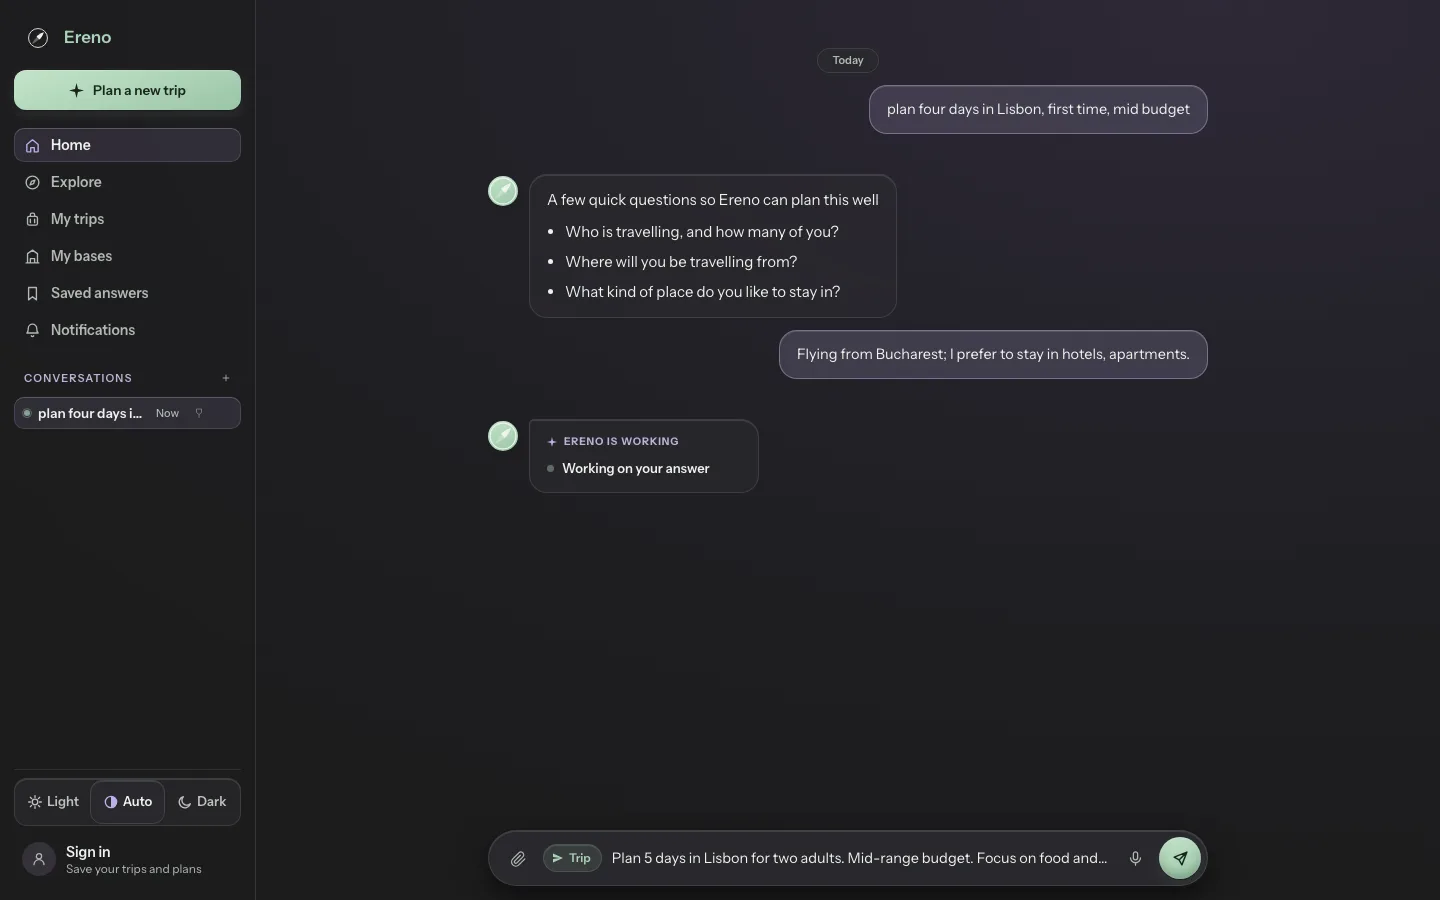
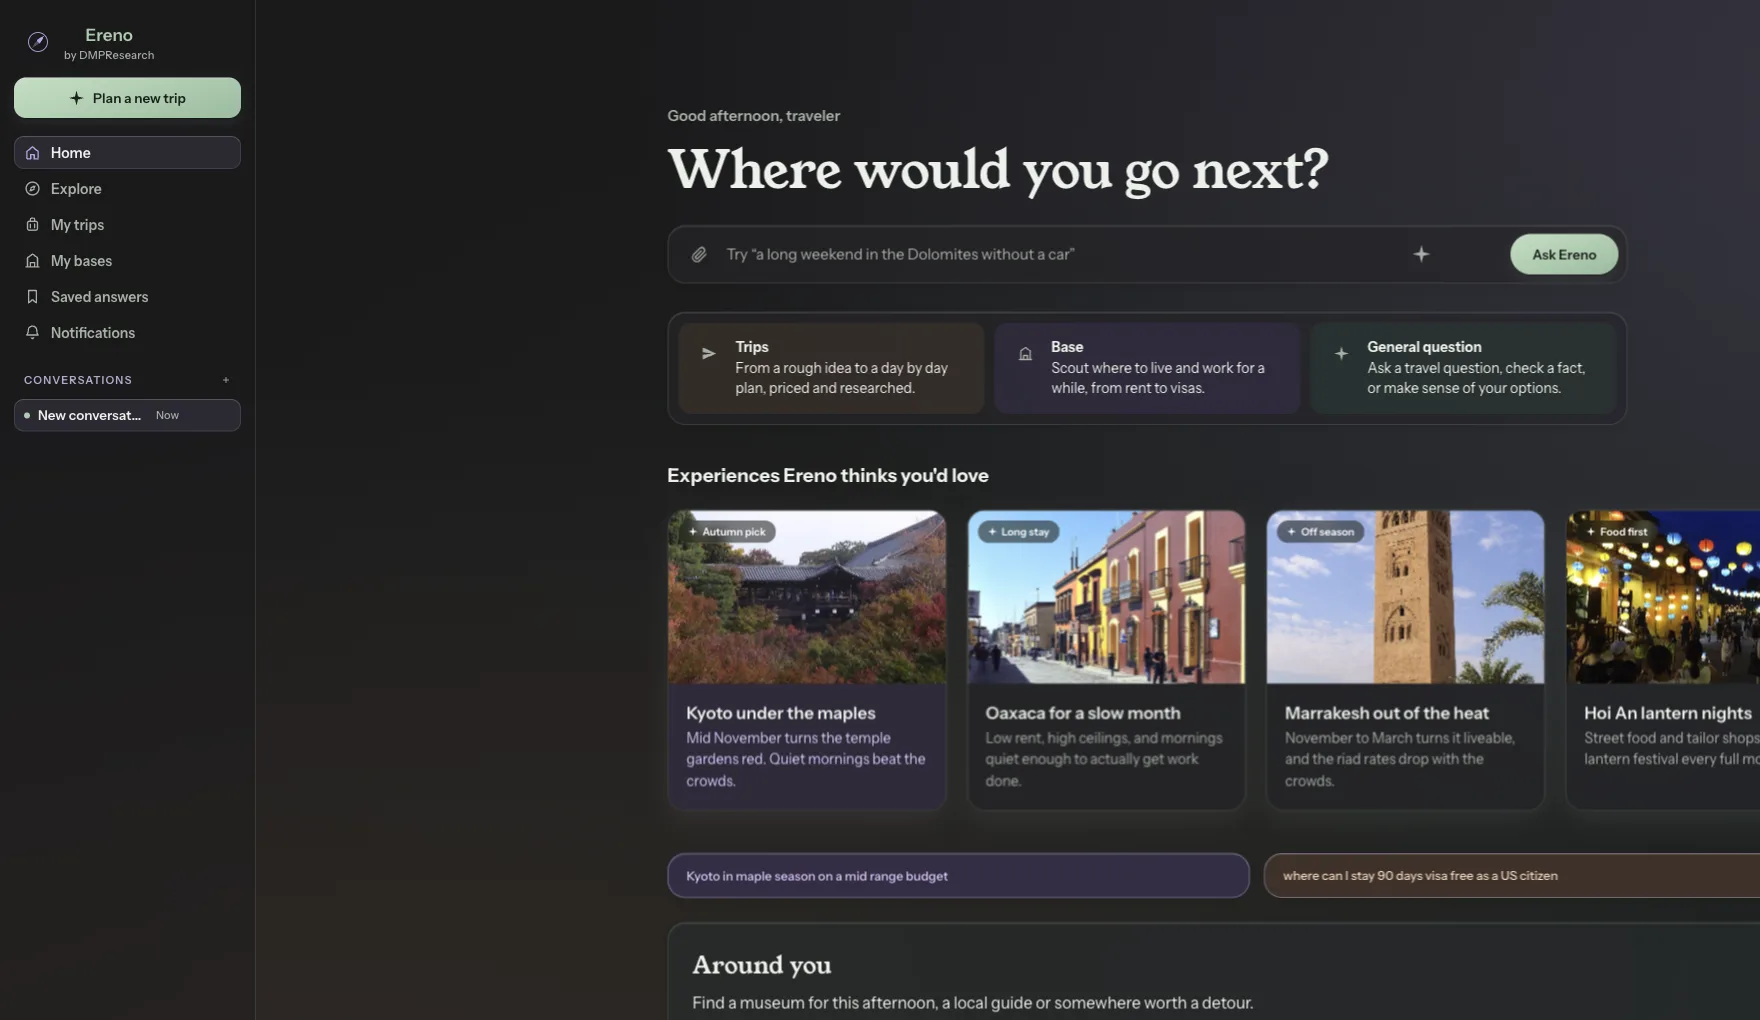
Show the current Ereno home interface in product screenshots.
Replace the old Lisbon planning shot with light and dark captures of the live home screen so the marketing site matches the app.

diff --git a/src/content/site.ts b/src/content/site.ts
@@ -102,7 +102,7 @@ export const products: Product[] = [
     mark: '/ereno.svg',
     imageLight: '/images/ereno-app-light.webp',
     imageDark: '/images/ereno-app-dark.webp',
-    imageAlt: 'Screenshot of the Ereno web app planning a Lisbon trip',
+    imageAlt: 'Screenshot of the Ereno home screen with trip, base, and ask modes',
     title: 'A trip planner that shows its sources',
     text: 'Ereno is a web app for planning trips and scouting places to stay. You describe what you want in plain language. It pulls research, compares options, and keeps the trade-offs visible. It does not book anything. You book with the provider.',
     points: [
